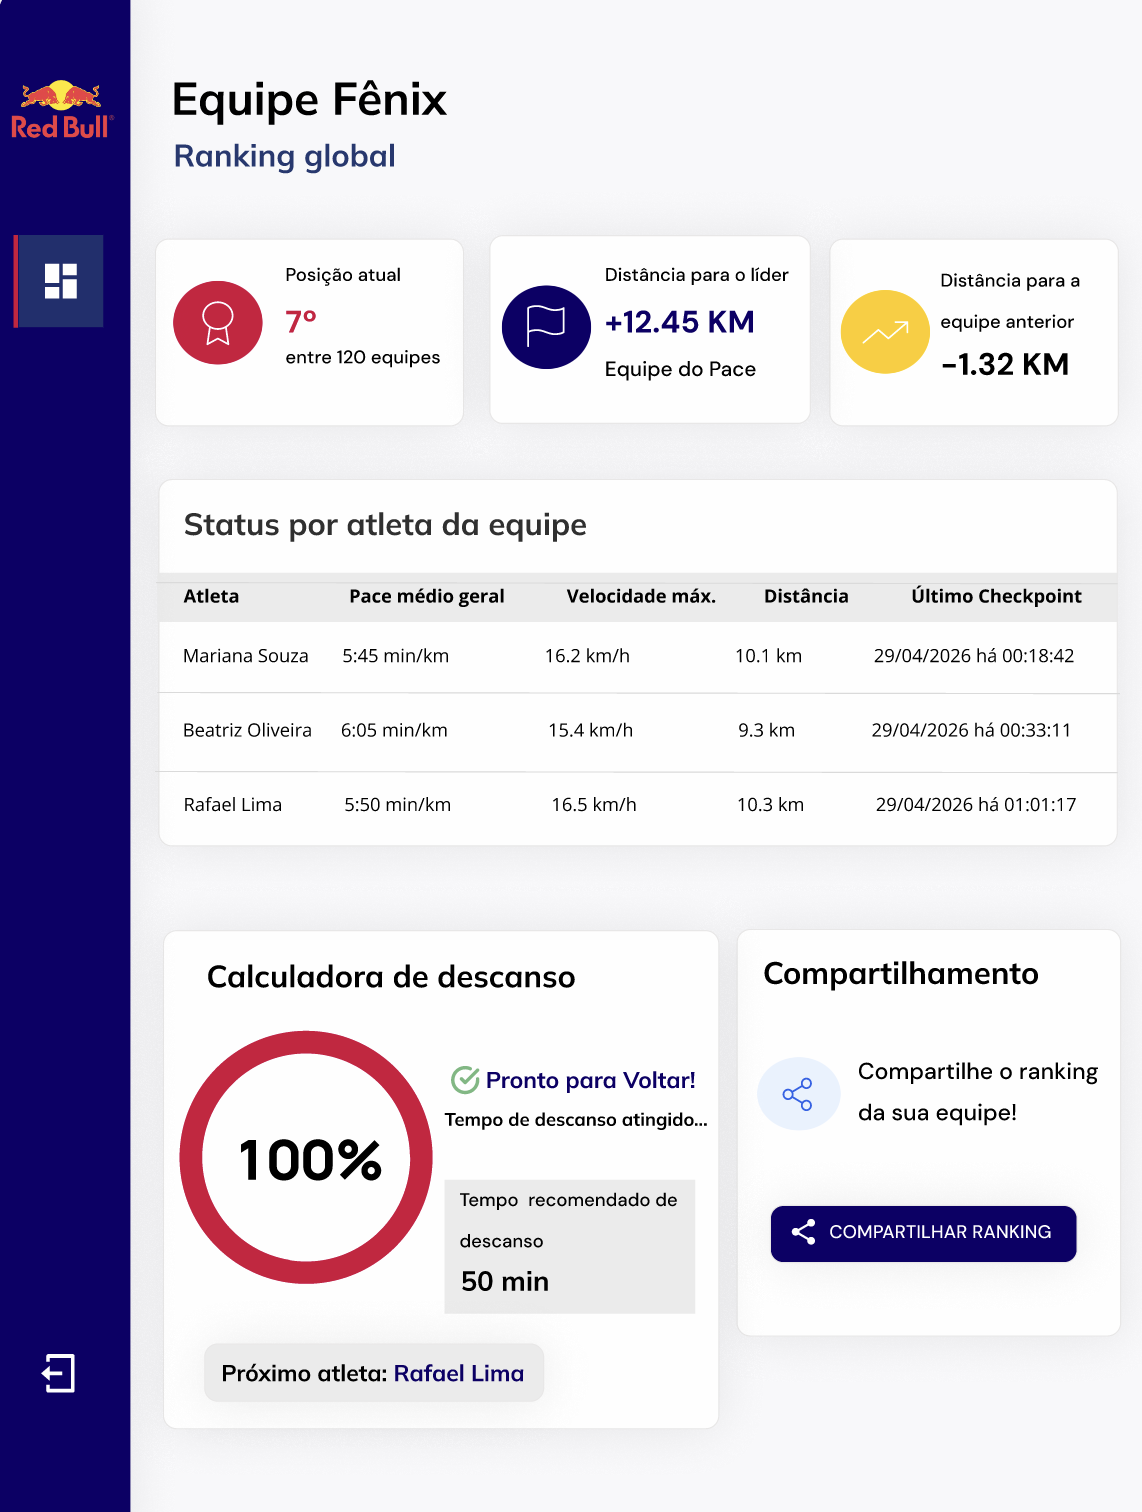
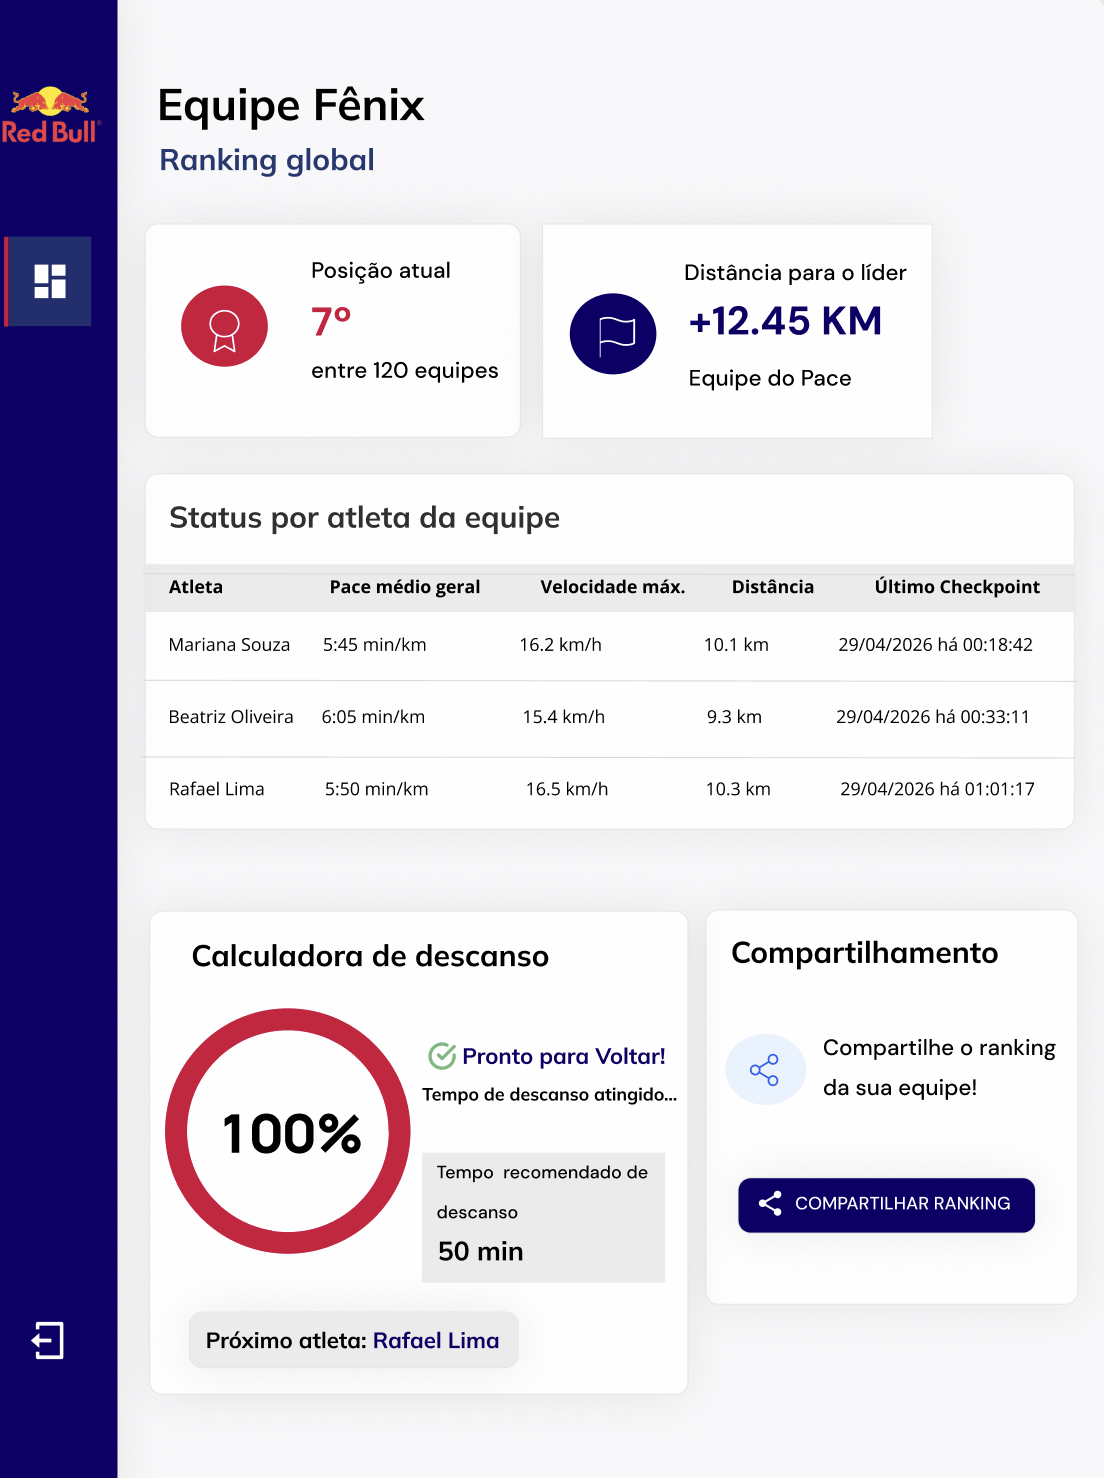
docs: corrige o wireframe de alta fidelidade de acordo com a revisao. Closes #170

diff --git a/documentos/wad.md b/documentos/wad.md
@@ -1046,9 +1046,9 @@ As telas abaixo representam o painel operacional do administrador da competiçã
 
 ### Atleta/corredor
 
-A tela abaixo representa o painel de acessso da equipe que foi desenvolvida para apresentar de forma clara e organizada as principais informações da competição em tempo real. A interface reúne dados de desempenho da equipe e dos atletas, permitindo acompanhamento rápido e apoio na tomada de decisões durante a corrida. 
+A tela abaixo representa o painel de acesso da equipe, que foi desenvolvido para apresentar de forma clara e organizada as principais informações da competição em tempo real. A interface reúne dados de desempenho da equipe e dos atletas, permitindo acompanhamento rápido e apoio na tomada de decisões pelo capitão da equipe durante a corrida.
 
-O layout utiliza cartões informativos, tabelas e indicadores visuais para facilitar a interpretação das métricas, como ranking, pace, velocidade, distância e descanso dos atletas, além de oferecer recursos estratégicos, como gerenciamento de descanso e compartilhamento do ranking da equipe, em um ambiente intuitivo, moderno e de fácil navegação.
+O layout utiliza cartões informativos, tabelas e indicadores visuais para facilitar a interpretação de métricas como ranking, pace, velocidade, distância e descanso dos atletas, além de oferecer recursos estratégicos, como a Calculadora de Descanso e o compartilhamento do ranking da equipe, priorizando legibilidade e leitura rápida das informações durante a operação da prova.
 
 <div align="center">
   <sub>Figura 6 - Tela da equipe </sub><br>
